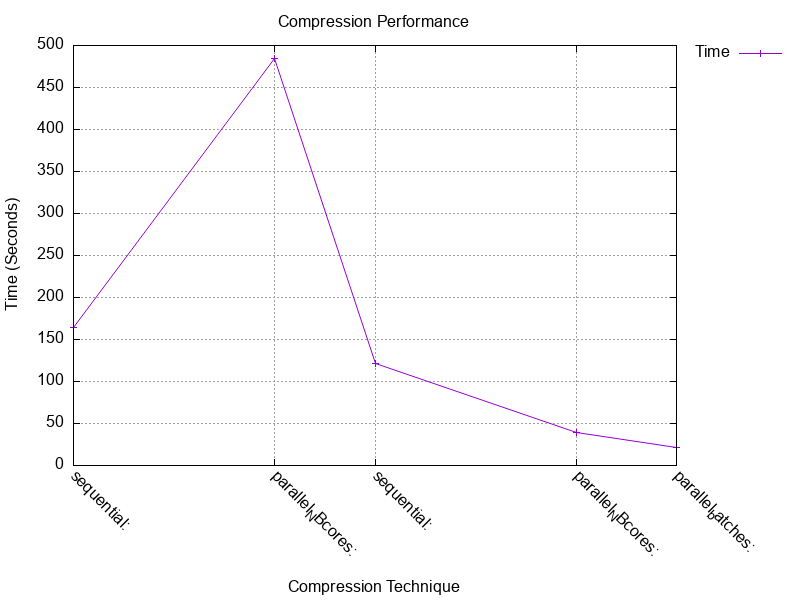
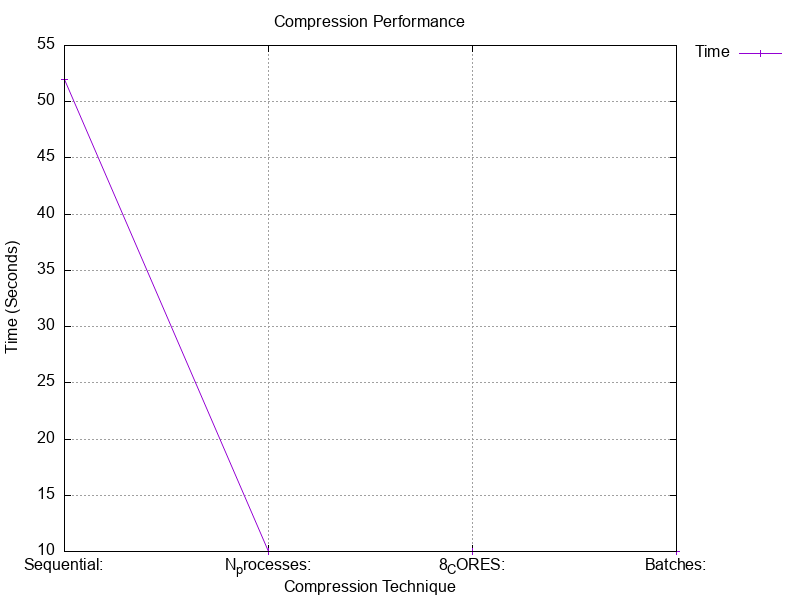
add: clear performance file on initial run

diff --git a/src/utils.c b/src/utils.c
@@ -100,6 +100,17 @@ void writePerformance(char *techniqueName, double totalTime) {
     fclose(file);
 }
 
+void clearPerformanceFile() {
+    FILE *file = fopen("./results/performance.txt", "w");
+    if (file == NULL) {
+        perror("Error clearing performance.txt");
+        return;
+    }
+    // Closing the file immediately clears its contents
+    fclose(file);
+}
+
+
 void visualizePerformance() {
     char *gnuplotCommand = "gnuplot -e \""
         "set terminal png size 800,600; "
@@ -109,7 +120,6 @@ void visualizePerformance() {
         "set ylabel 'Time (Seconds)'; "
         "set boxwidth 0.5; " 
         "set style fill solid; "
-        "set xtics rotate by -45; " 
         "plot './results/performance.txt' using 2:xtic(1) with boxes notitle;\""; 
 
     system(gnuplotCommand);
@@ -123,10 +133,8 @@ void visualizePerformanceLineChart() {
         "set title 'Compression Performance'; "
         "set xlabel 'Compression Technique'; "
         "set ylabel 'Time (Seconds)'; "
-        "set xtics rotate by -45; "
         "set grid; "
         "set key outside; "
         "plot './results/performance.txt' using 2:xtic(1) with linespoints title 'Time';\""; 
-
     system(gnuplotCommand);
 }

diff --git a/src/parallel_batches.c b/src/parallel_batches.c
@@ -18,7 +18,7 @@ void compressInBatches(char *inputDir, const char *outputDir) {
 
     for (int i = 0; i < NB_CORES; ++i) {
         pid_t pid = fork();
-        if (pid == 0) { // Child process
+        if (pid == 0) { 
             int start = i * filesPerCore + (i < extraFiles ? i : extraFiles);
             int end = start + filesPerCore + (i < extraFiles ? 1 : 0);
             compressMultipleFiles(filesList, start, end, outputDir);
@@ -41,7 +41,7 @@ void compressInBatches(char *inputDir, const char *outputDir) {
     printf("Total time taken to compress all files: ");
     formatTime(totalTime);
 
-    writePerformance("parallel_batches", totalTime);
+    writePerformance("Batches", totalTime);
 
     cleanup(filesList);
 

diff --git a/src/main.c b/src/main.c
@@ -22,6 +22,8 @@ int main(int argc, char **argv) {
     int fileCount = countFiles(argv[1]);
     char **fileList = listFiles(argv[1]);
 
+    clearPerformanceFile();
+
     compressSequentially(argv[1], argv[2]); // 1 minutes 45 seconds 130 files
     compressionNProcesses(argv[1], argv[2]); // 33 seconds 130 files 
     compressWithNBCores(argv[1], argv[2]);  // 19 seconds 130 files

diff --git a/src/parallel_NBcores.c b/src/parallel_NBcores.c
@@ -42,7 +42,7 @@ void compressWithNBCores(const char *inputDir, const char *outputDir) {
     printf("Total time taken to compress all files: ");
     formatTime(totalTime); 
 
-    writePerformance("parallel_NBcores", totalTime);
+    writePerformance("8_CORES", totalTime);
 
     // Cleanup
     cleanup(filesList); // Assuming cleanup properly frees the filesList

diff --git a/src/parallel_N.c b/src/parallel_N.c
@@ -36,7 +36,7 @@ void compressionNProcesses(char *inputDir, const char *outputDir) {
     printf("Total time taken to compress all files: ");
     formatTime(totalTime); 
 
-    writePerformance("parallel N processes", totalTime);
+    writePerformance("N_processes", totalTime);
 
     // Cleanup
     free(pids);

diff --git a/src/sequential.c b/src/sequential.c
@@ -24,7 +24,7 @@ void compressSequentially(char *inputDir, char *outputDir) {
     formatTime(totalTime);
 
 
-    writePerformance("sequential", totalTime);
+    writePerformance("Sequential", totalTime);
 
     cleanup(filesList);
 }

diff --git a/include/headers.h b/include/headers.h
@@ -24,5 +24,6 @@ void formatTime(double totalTime);
 void writePerformance(char *techniqueName, double totalTime);
 void visualizePerformance();
 void visualizePerformanceLineChart();
+void clearPerformanceFile();
 
 #endif 
